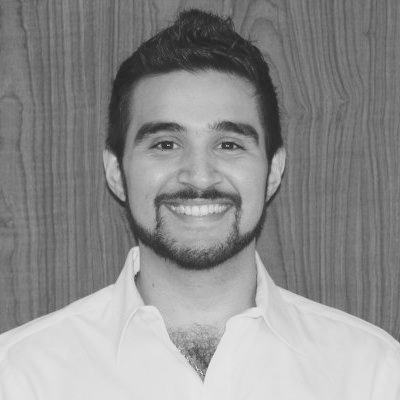
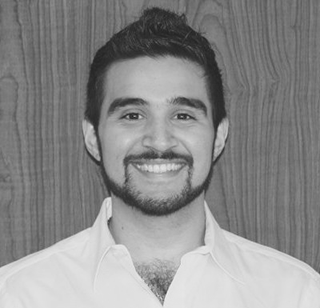
adds new projects and change on testimonials.

diff --git a/templates/index.html b/templates/index.html
@@ -135,11 +135,7 @@ type: index
 
 <section class="testimonials row clearfix">
   <h3 class="title-advantages">Testimonials</h3>
-  <div class="picture col-3 hidden-on-xsmall hidden-on-small">
-    <img src="assets/img/testimonial.png" alt="Testimonial" />
-    <div class="fake-skew"></div>
-  </div>
-  <div class="col-9 quote-container">
+  <div class="col-12 quote-container">
     <div class="quote vertical-align">
       <blockquote>
         <p>
@@ -151,7 +147,7 @@ type: index
       </blockquote>
     </div>
   </div>
-  <div class="col-9 quote-container">
+  <div class="col-12 quote-container">
     <div class="quote vertical-align">
       <blockquote>
         <p>
@@ -163,9 +159,11 @@ type: index
       </blockquote>
     </div>
   </div>
-  <div class="picture col-3 hidden-on-xsmall hidden-on-small">
-    <img src="assets/img/testimonials-pato.jpg" alt="Testimonial" />
-    <div class="fake-skew-right"></div>
+  <div class="picture col-12 hidden-on-xsmall hidden-on-small">
+    <img src="assets/img/testimonials-pato-black.jpg" alt="Testimonial" />
+    <img src="assets/img/testimonial.png" alt="Testimonial" />
+    <!--div class="fake-skew-right"></div-->
+  </div>
   </div>
 </section>
 

diff --git a/templates/projects.html b/templates/projects.html
@@ -7,7 +7,7 @@ type: projects
 <section class="info">
   <h4 class="section-name capital">Work</h4>
   <h1 class="section-tag">We make things that impact people.</h1>
-  <p class="section-description">Product development and design firm focused on <span class="red">Web</span> and <span class="red">Mobile</span> consuming products</p>
+  <p class="section-description">Product development and design firm focused on consumer <span class="red">software</span> products.</p>
 </section>
 
 {% for project in site.data.projects %}

diff --git a/sass/_index.scss b/sass/_index.scss
@@ -283,11 +283,13 @@
     padding: 0;
     position: relative;
     overflow: hidden;
-    height: 340px;
+    height: auto;
+    text-align: center;
+    padding-bottom: 100px;
 
     img {
-      width: auto;
-      height: 100%;    
+      width: 8%;
+      height: auto;    
     }
   }
 
